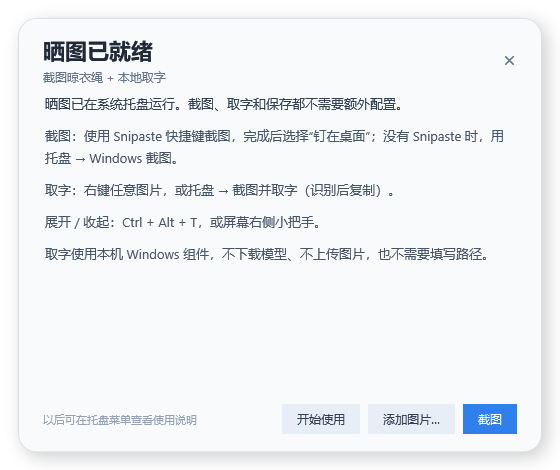
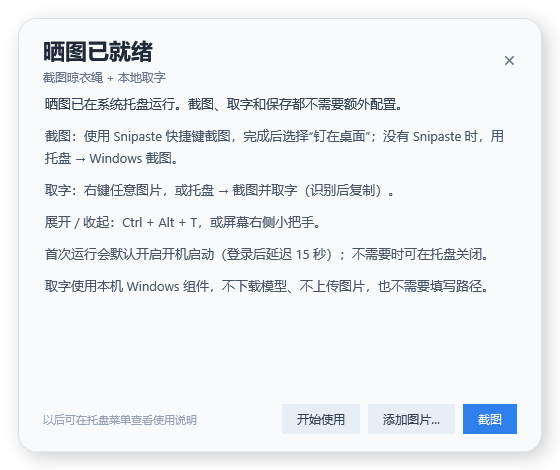
feat: enable startup by default on first run
Create the startup shortcut on the first launch, document it in the welcome guide and README, and keep the existing opt-out for users who disable it in the tray.

Changed region(s): [[0.0607, 0.5064, 0.8804, 0.566], [0.0607, 0.5957, 0.5161, 0.6255], [0.5464, 0.5957, 0.8804, 0.6255]]

diff --git a/src/Store.cs b/src/Store.cs
@@ -21,7 +21,7 @@ namespace ShaiTu {
         [DataMember] public uint HotkeyKey = 84;
         [DataMember] public bool SnipasteEnabled = true;
         [DataMember] public bool SnipasteConfigured;
-        [DataMember] public bool StartupEnabled;
+        [DataMember] public bool StartupEnabled = true;
         [DataMember] public bool StartupConfigured;
         [DataMember] public double HeightOffset;
         [DataMember] public string SnipasteFolder = "";
@@ -45,7 +45,6 @@ namespace ShaiTu {
         public Store(string root) {
             Root = root; Cache = Path.Combine(root, "images");
             Directory.CreateDirectory(Cache);
-            bool hadSettings = File.Exists(Path.Combine(Root, "settings.json")) || File.Exists(Path.Combine(Root, "settings.json.bak"));
             Settings = ReadSettings(Path.Combine(Root, "settings.json")) ?? ReadSettings(Path.Combine(Root, "settings.json.bak")) ?? new Settings();
             if (Settings.Files == null) Settings.Files = new List<string>();
             if (!Settings.SnipasteConfigured) { Settings.SnipasteEnabled = true; Settings.SnipasteConfigured = true; }
@@ -57,11 +56,10 @@ namespace ShaiTu {
             if (migrateInteraction) { Settings.AutoHide = true; Settings.EdgeEnabled = true; Settings.InteractionVersion = 3; }
             bool migrateCapture = Settings.CapturePolicyVersion < 1;
             if (migrateCapture) { Settings.ClipboardEnabled = false; Settings.CapturePolicyVersion = 1; }
-            // Older builds only had the shortcut itself as the on/off state. Preserve that
-            // for upgrades, but a fresh portable extraction should not add itself to startup
-            // until the user opts in from the tray.
+            // Older builds only had the shortcut itself as the on/off state. Enable it
+            // on first run; the welcome guide explains how to turn it off later.
             bool migrateStartup = !Settings.StartupConfigured;
-            if (migrateStartup) { Settings.StartupEnabled = hadSettings; Settings.StartupConfigured = true; }
+            if (migrateStartup) { Settings.StartupEnabled = true; Settings.StartupConfigured = true; }
             if (Double.IsNaN(Settings.HeightOffset) || Double.IsInfinity(Settings.HeightOffset) || Settings.HeightOffset < 0) Settings.HeightOffset = 0;
             foreach (string name in Settings.Files.Take(Capacity)) {
                 if (!IsOwnedName(name)) continue;

diff --git a/src/Program.cs b/src/Program.cs
@@ -10,7 +10,7 @@ using Microsoft.Win32;
 using Forms = System.Windows.Forms;
 
 [assembly: System.Reflection.AssemblyTitle("晒图 · ShaiTu")]
-[assembly: System.Reflection.AssemblyVersion("0.7.2.0")]
+[assembly: System.Reflection.AssemblyVersion("0.7.3.0")]
 [assembly: System.Reflection.AssemblyMetadata("License", "Apache-2.0")]
 
 namespace ShaiTu {
@@ -439,7 +439,7 @@ namespace ShaiTu {
             }));
             menu.Items.Add(Item("关于晒图", delegate {
                 line.Busy = true;
-                MessageBox.Show("晒图 0.7.2\n\n截图晾衣绳与本地取字\nApache License 2.0", "关于晒图");
+                MessageBox.Show("晒图 0.7.3\n\n截图晾衣绳与本地取字\nApache License 2.0", "关于晒图");
                 line.Busy = false;
             }));
             menu.Items.Add(new Forms.ToolStripSeparator()); menu.Items.Add(Item("清理截图并退出", ExitFromTray));

diff --git a/src/WelcomeWindow.cs b/src/WelcomeWindow.cs
@@ -43,6 +43,7 @@ namespace ShaiTu {
             body.Children.Add(Line("截图：使用 Snipaste 快捷键截图，完成后选择“钉在桌面”；没有 Snipaste 时，用托盘 → Windows 截图。"));
             body.Children.Add(Line("取字：右键任意图片，或托盘 → 截图并取字（识别后复制）。"));
             body.Children.Add(Line("展开 / 收起：Ctrl + Alt + T，或屏幕右侧小把手。"));
+            body.Children.Add(Line("首次运行会默认开启开机启动（登录后延迟 15 秒）；不需要时可在托盘关闭。"));
             body.Children.Add(Line("取字使用本机 Windows 组件，不下载模型、不上传图片，也不需要填写路径。"));
             Grid.SetRow(body, 1); grid.Children.Add(body);
 
